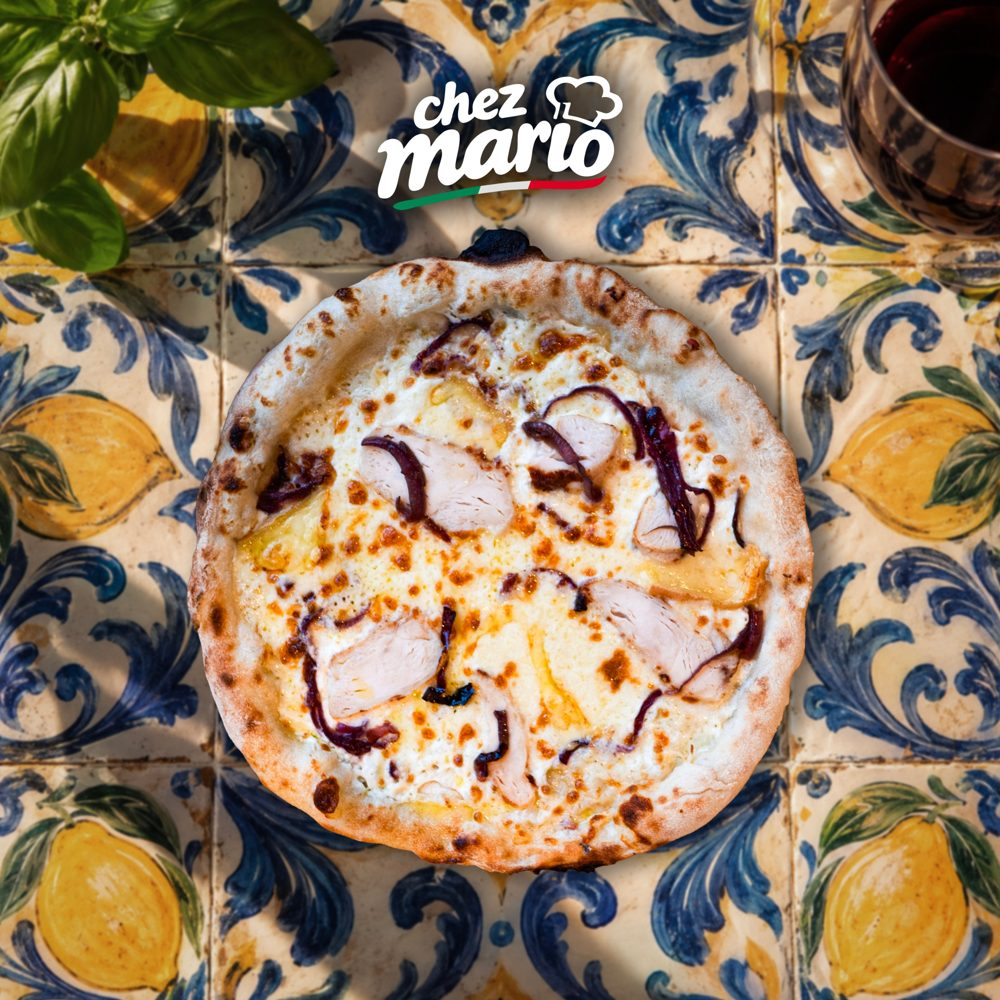
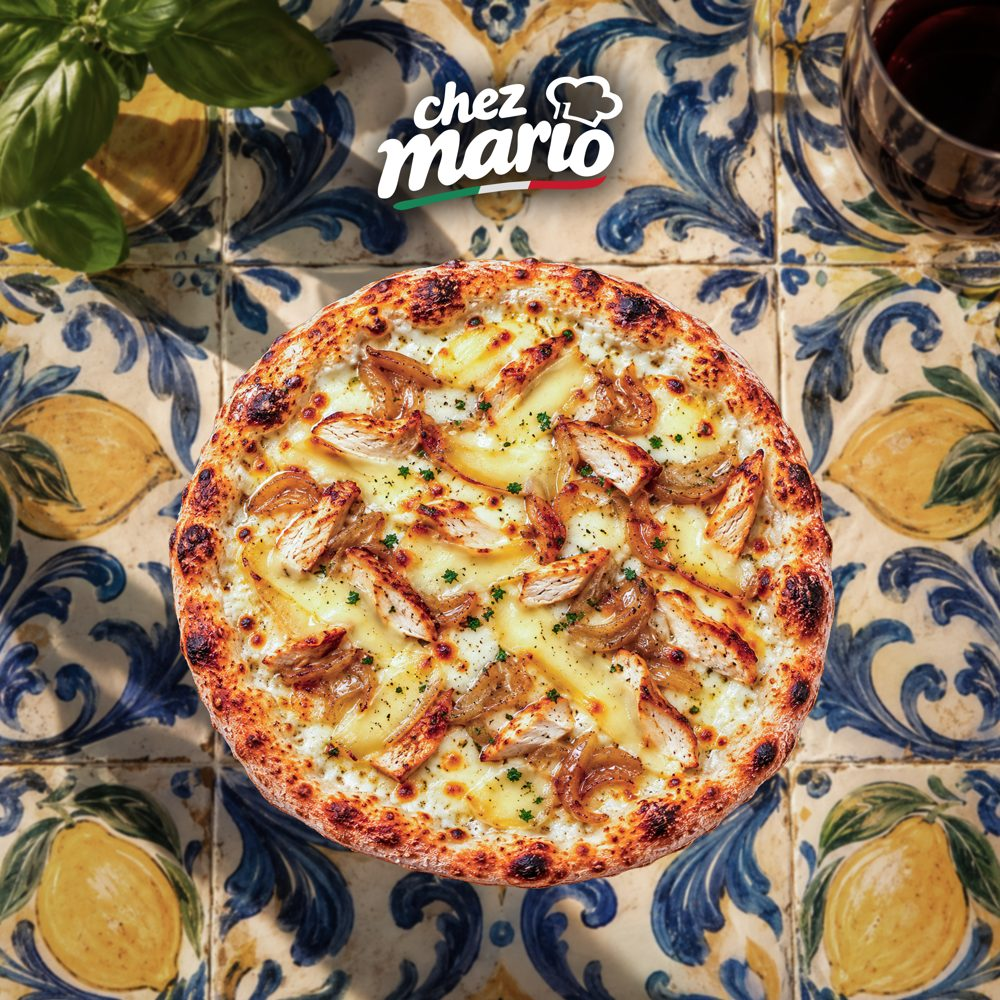
Photos Pizza Mario, 4 Fromages, Calzone
Claude-Session: https://claude.ai/code/session_01RnaEAfGGQZWgijkDTzdAs8

diff --git a/index.html b/index.html
@@ -452,8 +452,24 @@ footer a{color:#fff}
     "addressCountry": "FR"
    },
    "openingHoursSpecification": [
-    {"@type": "OpeningHoursSpecification","dayOfWeek": ["Tuesday","Wednesday","Thursday","Friday","Saturday"],"opens": "11:00","closes": "23:30"},
-    {"@type": "OpeningHoursSpecification","dayOfWeek": "Sunday","opens": "18:00","closes": "23:30"}
+    {
+     "@type": "OpeningHoursSpecification",
+     "dayOfWeek": [
+      "Tuesday",
+      "Wednesday",
+      "Thursday",
+      "Friday",
+      "Saturday"
+     ],
+     "opens": "11:00",
+     "closes": "23:30"
+    },
+    {
+     "@type": "OpeningHoursSpecification",
+     "dayOfWeek": "Sunday",
+     "opens": "18:00",
+     "closes": "23:30"
+    }
    ],
    "hasMenu": {
     "@id": "https://chezmario.vercel.app/#menu"
@@ -559,7 +575,8 @@ footer a{color:#fff}
         "@type": "Offer",
         "price": "7.90",
         "priceCurrency": "EUR"
-       }
+       },
+       "image": "https://chezmario.vercel.app/photos/pizza-mario.jpg"
       }
      ]
     },
@@ -1022,15 +1039,15 @@ const CONFIG = {
       groups: [
         {title:"Base tomate", items:[
           {img:"photos/margherita.jpg", name:"Margherita", price:"7 €",    desc:"Sauce tomate, mozzarella, origan.", style:"rossa", tags:["Végétarienne"]},
-          {name:"4 Fromages", price:"7,90 €", desc:"Sauce tomate, mozzarella, gorgonzola, chèvre, parmesan.", style:"rossa", tags:["Végétarienne"]},
+          {img:"photos/4fromages-tomate.jpg", name:"4 Fromages", price:"7,90 €", desc:"Sauce tomate, mozzarella, gorgonzola, chèvre, parmesan.", style:"rossa", tags:["Végétarienne"]},
           {img:"photos/regina.jpg", name:"Regina",     price:"7,90 €", desc:"Sauce tomate, mozzarella, jambon, champignons.", style:"rossa", tags:[]},
           {img:"photos/verone.jpg", name:"Vérone",     price:"7,90 €", desc:"Sauce tomate, mozzarella, poulet rôti, champignons.", style:"rossa", tags:[]},
           {img:"photos/orientale.jpg", name:"Orientale",  price:"7,90 €", desc:"Sauce tomate, mozzarella, merguez, poivrons, oignons.", style:"rossa", tags:["Épicée"]},
           {img:"photos/tonno.jpg", name:"Tonno",      price:"7,90 €", desc:"Sauce tomate, mozzarella, thon, œuf, olives, oignons rouges.", style:"rossa", tags:[]},
-          {name:"Calzone",    price:"7,90 €", desc:"Sauce tomate, mozzarella, jambon, œuf, champignons. Pizza pliée et dorée.", style:"rossa", tags:[]}
+          {img:"photos/calzone.jpg", name:"Calzone",    price:"7,90 €", desc:"Sauce tomate, mozzarella, jambon, œuf, champignons. Pizza pliée et dorée.", style:"rossa", tags:[]}
         ]},
         {title:"Base crème fraîche", items:[
-          {name:"Pizza Mario", price:"7,90 €", desc:"Crème fraîche, mozzarella, poulet rôti, fromage à raclette, oignons confits.", style:"bianca", tags:["Signature"]},
+          {img:"photos/pizza-mario.jpg", name:"Pizza Mario", price:"7,90 €", desc:"Crème fraîche, mozzarella, poulet rôti, fromage à raclette, oignons confits.", style:"bianca", tags:["Signature"]},
           {img:"photos/chevre.jpg", name:"Chèvre", price:"7,90 €", desc:"Crème fraîche, mozzarella, chèvre, miel, noix.", style:"bianca", tags:["Végétarienne"]},
           {img:"photos/savoyarde.jpg", name:"Savoyarde",   price:"7,90 €", desc:"Crème fraîche, mozzarella, pommes de terre, jambon, oignons rouges.", style:"bianca", tags:[]},
           {name:"4 Fromages",  price:"7,90 €", desc:"Crème fraîche, mozzarella, gorgonzola, chèvre, parmesan.", style:"bianca", tags:["Végétarienne"]},
